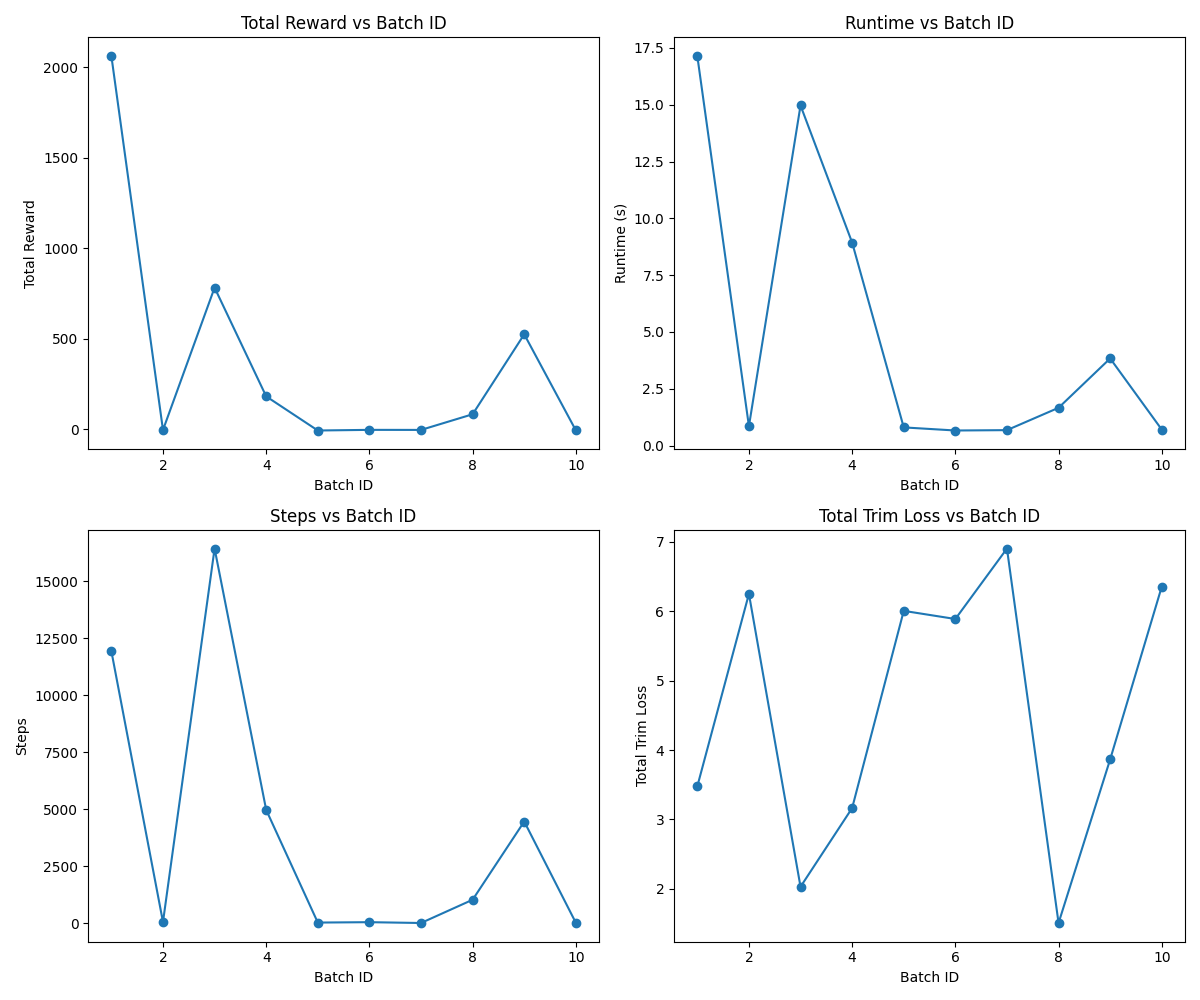
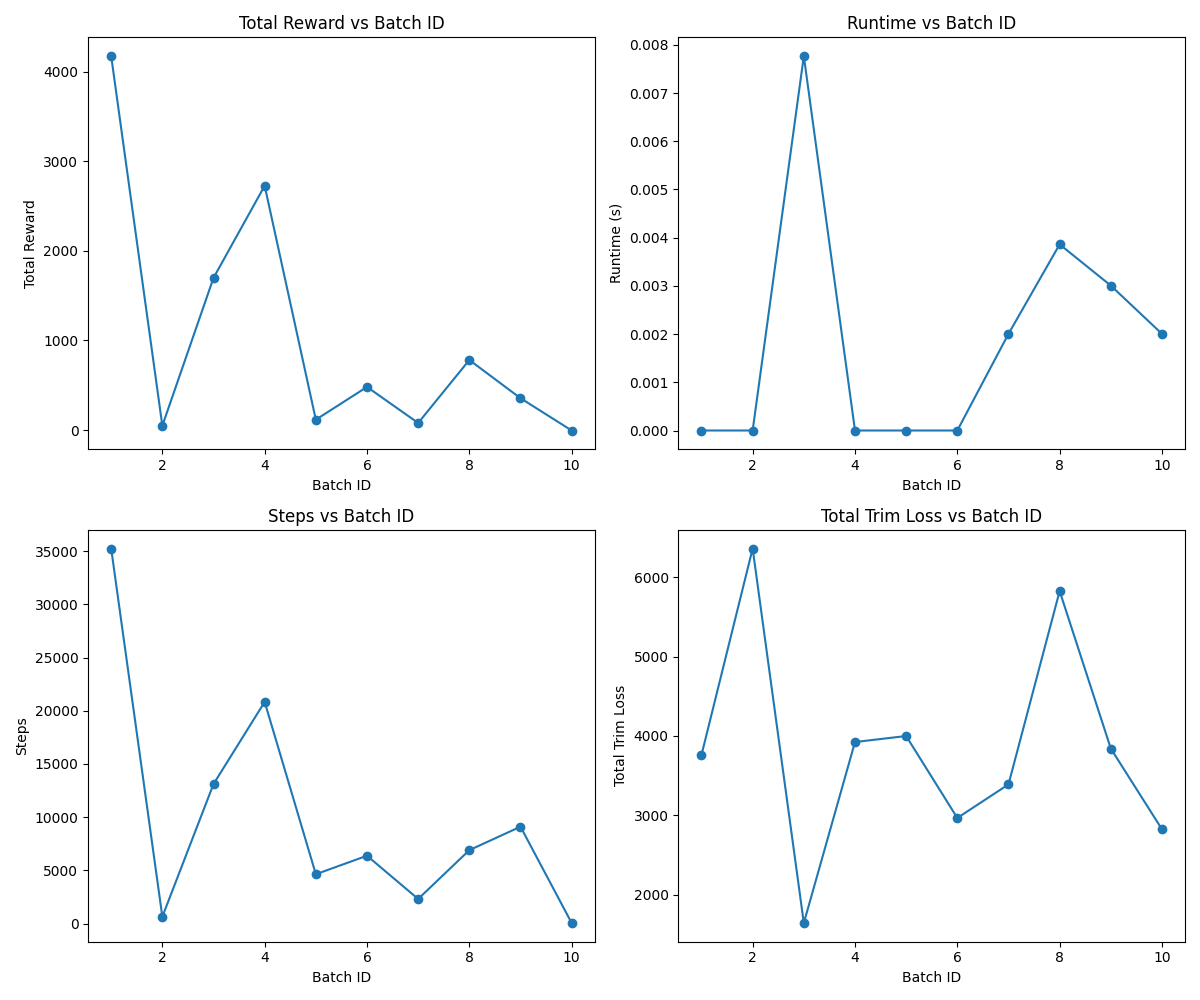
update

diff --git a/cutting_stock_project/training/train_q_learning.py b/cutting_stock_project/training/train_q_learning.py
@@ -18,24 +18,61 @@ def get_reward(observation, info):
     stock_bonus = lambda_bonus * (num_stocks_unused / total_stocks)
     return (filled_ratio - trim_loss) + stock_bonus
 
+# def compute_metrics(env, episode_steps, episode_reward):
+#     used_stocks = int(np.sum(env.cutted_stocks))
+#     remaining_stock = 0
+#     used_areas = []
+#     total_trim_loss_val = 0
+#     for idx, stock in enumerate(env._stocks):
+#         valid_area = np.sum(stock != -2)
+#         free_area = np.sum(stock == -1)
+#         remaining_stock += free_area
+#         if env.cutted_stocks[idx] == 1:
+#             used_area = valid_area - free_area
+#             used_areas.append(used_area)
+#             tl = free_area / valid_area if valid_area > 0 else 0
+#             total_trim_loss_val += tl
+#     avg_used_stock_area = np.mean(used_areas) if used_areas else 0
+#     metrics = {
+#         "steps": episode_steps,
+#         "total_trim_loss": total_trim_loss_val,
+#         "remaining_stock": remaining_stock,
+#         "used_stocks": used_stocks,
+#         "avg_used_stock_area": avg_used_stock_area,
+#         "total_reward": episode_reward
+#     }
+#     return metrics
+
 def compute_metrics(env, episode_steps, episode_reward):
+    """
+    Tính các chỉ số dựa trên trạng thái cuối của môi trường:
+      - total_trim_loss: Tổng diện tích lãng phí (free area) trong các stock đã được cắt.
+      - remaining_stock: Số lượng stock chưa được cắt (tổng stock - used_stocks).
+      - used_stocks: Số lượng stock đã được cắt.
+      - avg_used_stock_area: Trung bình diện tích đã sử dụng (valid_area - free_area) trên các stock đã cắt.
+      - steps: Số bước của episode.
+      - total_reward: Tổng reward của episode.
+    """
+    num_stocks = len(env._stocks)
     used_stocks = int(np.sum(env.cutted_stocks))
-    remaining_stock = 0
-    used_areas = []
-    total_trim_loss_val = 0
+    remaining_stock = num_stocks - used_stocks  # Số stock chưa sử dụng
+
+    total_trim_loss = 0  # Tổng diện tích lãng phí (free area) trên các stock đã cắt
+    used_areas = []      # Diện tích đã sử dụng của từng stock đã cắt
+
     for idx, stock in enumerate(env._stocks):
-        valid_area = np.sum(stock != -2)
-        free_area = np.sum(stock == -1)
-        remaining_stock += free_area
+        valid_area = np.sum(stock != -2)  # Số ô hợp lệ trong stock
+        free_area = np.sum(stock == -1)     # Số ô trống
         if env.cutted_stocks[idx] == 1:
             used_area = valid_area - free_area
             used_areas.append(used_area)
-            tl = free_area / valid_area if valid_area > 0 else 0
-            total_trim_loss_val += tl
+            total_trim_loss += free_area
+
     avg_used_stock_area = np.mean(used_areas) if used_areas else 0
+
     metrics = {
         "steps": episode_steps,
-        "total_trim_loss": total_trim_loss_val,
+        "total_trim_loss": total_trim_loss,
         "remaining_stock": remaining_stock,
         "used_stocks": used_stocks,
         "avg_used_stock_area": avg_used_stock_area,
@@ -43,7 +80,9 @@ def compute_metrics(env, episode_steps, episode_reward):
     }
     return metrics
 
-def train(num_episodes=10, state_size=100000, action_size=1000):
+
+
+def train(num_episodes=500, state_size=100000, action_size=1000):
     """
     Train the Q-Learning agent for 10 batches using static_data.
     For each batch:
@@ -90,7 +129,7 @@ def train(num_episodes=10, state_size=100000, action_size=1000):
         best_action_list = []  # Lưu các action hợp lệ của episode tốt nhất
         total_steps = 0
 
-        batch_start_time = time.time()
+        # batch_start_time = time.time()
 
         # Training loop for each episode
         for episode in range(num_episodes):
@@ -154,7 +193,7 @@ def train(num_episodes=10, state_size=100000, action_size=1000):
         else:
             print("Skipping replay since best_action_list is empty.")
 
-        batch_runtime = time.time() - batch_start_time
+        batch_runtime = time.time() - start_time
         if best_metrics is None:
             best_metrics = {
                 "steps": 0,
